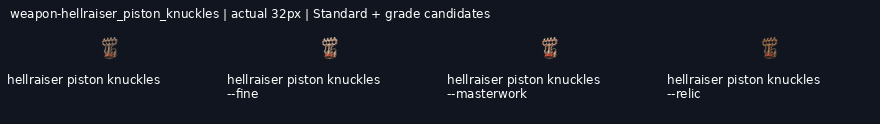
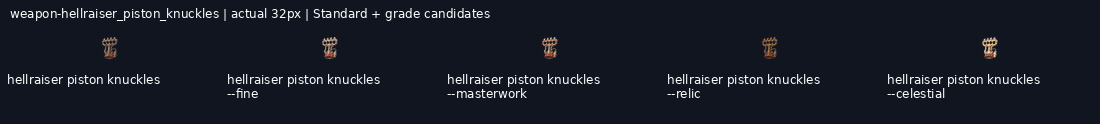
art: draw weapon-hellraiser_piston_knuckles--celestial grade candidate

diff --git a/art/_archive/gear/2026-11-19-kept-blade-grades/HANDOFF.md b/art/_archive/gear/2026-11-19-kept-blade-grades/HANDOFF.md
@@ -1,6 +1,6 @@
 # Gear grade candidates
 
-**188/244 grade candidates delivered** on `art/2026-11-19-kept-blade-grades`. Shared mailbox: https://github.com/leonpentastorm/Project-Heaven-Cry/issues/3 . See claim.json for this lane’s current Standards. Released overlapping blades reuse12 peer candidates, with3 local alternatives archived.
+**189/244 grade candidates delivered** on `art/2026-11-19-kept-blade-grades`. Shared mailbox: https://github.com/leonpentastorm/Project-Heaven-Cry/issues/3 . See claim.json for this lane’s current Standards. Released overlapping blades reuse12 peer candidates, with3 local alternatives archived.
 
 Leon requested continuous candidate production; proof approval is not fabricated. All candidates remain review-candidate, production_approved:false, implementation_ready:false, with outline.review_required:true. Exact outline is measured, never asserted unless the masks match. Per-image registration is uniform scaling/translation only, without warp, silhouette masks, filled pixels or code-drawn substitutes. The generated native remains untouched.
 
@@ -10,12 +10,12 @@ Tomorrow: fetch this branch and develop safely, read the latest issue 3 comments
 
 Peer audit: [coordination/peer-audit-2026-11-19.md](coordination/peer-audit-2026-11-19.md). Peer58 masters/232 exports and12 canonical imports are integrated with versioned alpha<8 cleanup; originals are retained. See coordination/peer-import-v2/manifest.json and post-catalog VALIDATION.json (strict margins pass, solid alpha unchanged). Peer quota resets20 November2026 at09:45:39 Bangkok time; this does not establish this session’s quota.
 
-Remaining: weapon-ork_machete--masterwork, weapon-ork_machete--relic, weapon-ork_machete--celestial, weapon-war_axe--fine, weapon-war_axe--masterwork, weapon-war_axe--relic, weapon-war_axe--celestial, weapon-parlour_pistol--fine, weapon-parlour_pistol--masterwork, weapon-parlour_pistol--relic, weapon-parlour_pistol--celestial, weapon-lever_carbine--fine, weapon-lever_carbine--masterwork, weapon-lever_carbine--relic, weapon-lever_carbine--celestial, weapon-sawn_off--fine, weapon-sawn_off--masterwork, weapon-sawn_off--relic, weapon-sawn_off--celestial, weapon-coach_gun--fine, weapon-coach_gun--masterwork, weapon-coach_gun--relic, weapon-coach_gun--celestial, weapon-legion_bullpup--fine, weapon-legion_bullpup--masterwork, weapon-legion_bullpup--relic, weapon-legion_bullpup--celestial, weapon-whisper_smg--fine, weapon-whisper_smg--masterwork, weapon-whisper_smg--relic, weapon-whisper_smg--celestial, weapon-war_pick--fine, weapon-war_pick--masterwork, weapon-war_pick--relic, weapon-war_pick--celestial, weapon-war_hammer--fine, weapon-war_hammer--masterwork, weapon-war_hammer--relic, weapon-war_hammer--celestial, weapon-short_bow--fine, weapon-short_bow--masterwork, weapon-short_bow--relic, weapon-short_bow--celestial, weapon-hellraiser_piston_knuckles--celestial, weapon-hellraiser_door_knocker--fine, weapon-hellraiser_door_knocker--masterwork, weapon-hellraiser_door_knocker--relic, weapon-hellraiser_door_knocker--celestial, weapon-throwing_darts--fine, weapon-throwing_darts--masterwork, weapon-throwing_darts--relic, weapon-throwing_darts--celestial, weapon-throwing_javelins--fine, weapon-throwing_javelins--masterwork, weapon-throwing_javelins--relic, weapon-throwing_javelins--celestial.
+Remaining: weapon-ork_machete--masterwork, weapon-ork_machete--relic, weapon-ork_machete--celestial, weapon-war_axe--fine, weapon-war_axe--masterwork, weapon-war_axe--relic, weapon-war_axe--celestial, weapon-parlour_pistol--fine, weapon-parlour_pistol--masterwork, weapon-parlour_pistol--relic, weapon-parlour_pistol--celestial, weapon-lever_carbine--fine, weapon-lever_carbine--masterwork, weapon-lever_carbine--relic, weapon-lever_carbine--celestial, weapon-sawn_off--fine, weapon-sawn_off--masterwork, weapon-sawn_off--relic, weapon-sawn_off--celestial, weapon-coach_gun--fine, weapon-coach_gun--masterwork, weapon-coach_gun--relic, weapon-coach_gun--celestial, weapon-legion_bullpup--fine, weapon-legion_bullpup--masterwork, weapon-legion_bullpup--relic, weapon-legion_bullpup--celestial, weapon-whisper_smg--fine, weapon-whisper_smg--masterwork, weapon-whisper_smg--relic, weapon-whisper_smg--celestial, weapon-war_pick--fine, weapon-war_pick--masterwork, weapon-war_pick--relic, weapon-war_pick--celestial, weapon-war_hammer--fine, weapon-war_hammer--masterwork, weapon-war_hammer--relic, weapon-war_hammer--celestial, weapon-short_bow--fine, weapon-short_bow--masterwork, weapon-short_bow--relic, weapon-short_bow--celestial, weapon-hellraiser_door_knocker--fine, weapon-hellraiser_door_knocker--masterwork, weapon-hellraiser_door_knocker--relic, weapon-hellraiser_door_knocker--celestial, weapon-throwing_darts--fine, weapon-throwing_darts--masterwork, weapon-throwing_darts--relic, weapon-throwing_darts--celestial, weapon-throwing_javelins--fine, weapon-throwing_javelins--masterwork, weapon-throwing_javelins--relic, weapon-throwing_javelins--celestial.
 
 Service-rejected requests (do not repeatedly resubmit): weapon-coach_gun--fine, weapon-legion_bullpup--fine, weapon-lever_carbine--fine, weapon-ork_machete--masterwork, weapon-parlour_pistol--fine, weapon-sawn_off--fine, weapon-short_bow--fine, weapon-war_axe--fine, weapon-war_hammer--fine, weapon-war_pick--fine, weapon-whisper_smg--fine.
 
 Waiting on rejected prerequisites: weapon-coach_gun--celestial, weapon-coach_gun--masterwork, weapon-coach_gun--relic, weapon-legion_bullpup--celestial, weapon-legion_bullpup--masterwork, weapon-legion_bullpup--relic, weapon-lever_carbine--celestial, weapon-lever_carbine--masterwork, weapon-lever_carbine--relic, weapon-ork_machete--celestial, weapon-ork_machete--relic, weapon-parlour_pistol--celestial, weapon-parlour_pistol--masterwork, weapon-parlour_pistol--relic, weapon-sawn_off--celestial, weapon-sawn_off--masterwork, weapon-sawn_off--relic, weapon-short_bow--celestial, weapon-short_bow--masterwork, weapon-short_bow--relic, weapon-war_axe--celestial, weapon-war_axe--masterwork, weapon-war_axe--relic, weapon-war_hammer--celestial, weapon-war_hammer--masterwork, weapon-war_hammer--relic, weapon-war_pick--celestial, weapon-war_pick--masterwork, weapon-war_pick--relic, weapon-whisper_smg--celestial, weapon-whisper_smg--masterwork, weapon-whisper_smg--relic.
 
-Ready independent next steps, in queue order: weapon-hellraiser_piston_knuckles--celestial, weapon-hellraiser_door_knocker--fine, weapon-throwing_darts--fine, weapon-throwing_javelins--fine. Other pending grades follow their preceding grade.
+Ready independent next steps, in queue order: weapon-hellraiser_door_knocker--fine, weapon-throwing_darts--fine, weapon-throwing_javelins--fine. Other pending grades follow their preceding grade.
 
 Runtime handoff: implementation_ready:false records review status but does not gate the web asset builder. The builder emits grade asset keys; the current UI gear resolver still needs grade-aware selection. Do not claim that runtime grade selection is implemented by these art deliveries.
